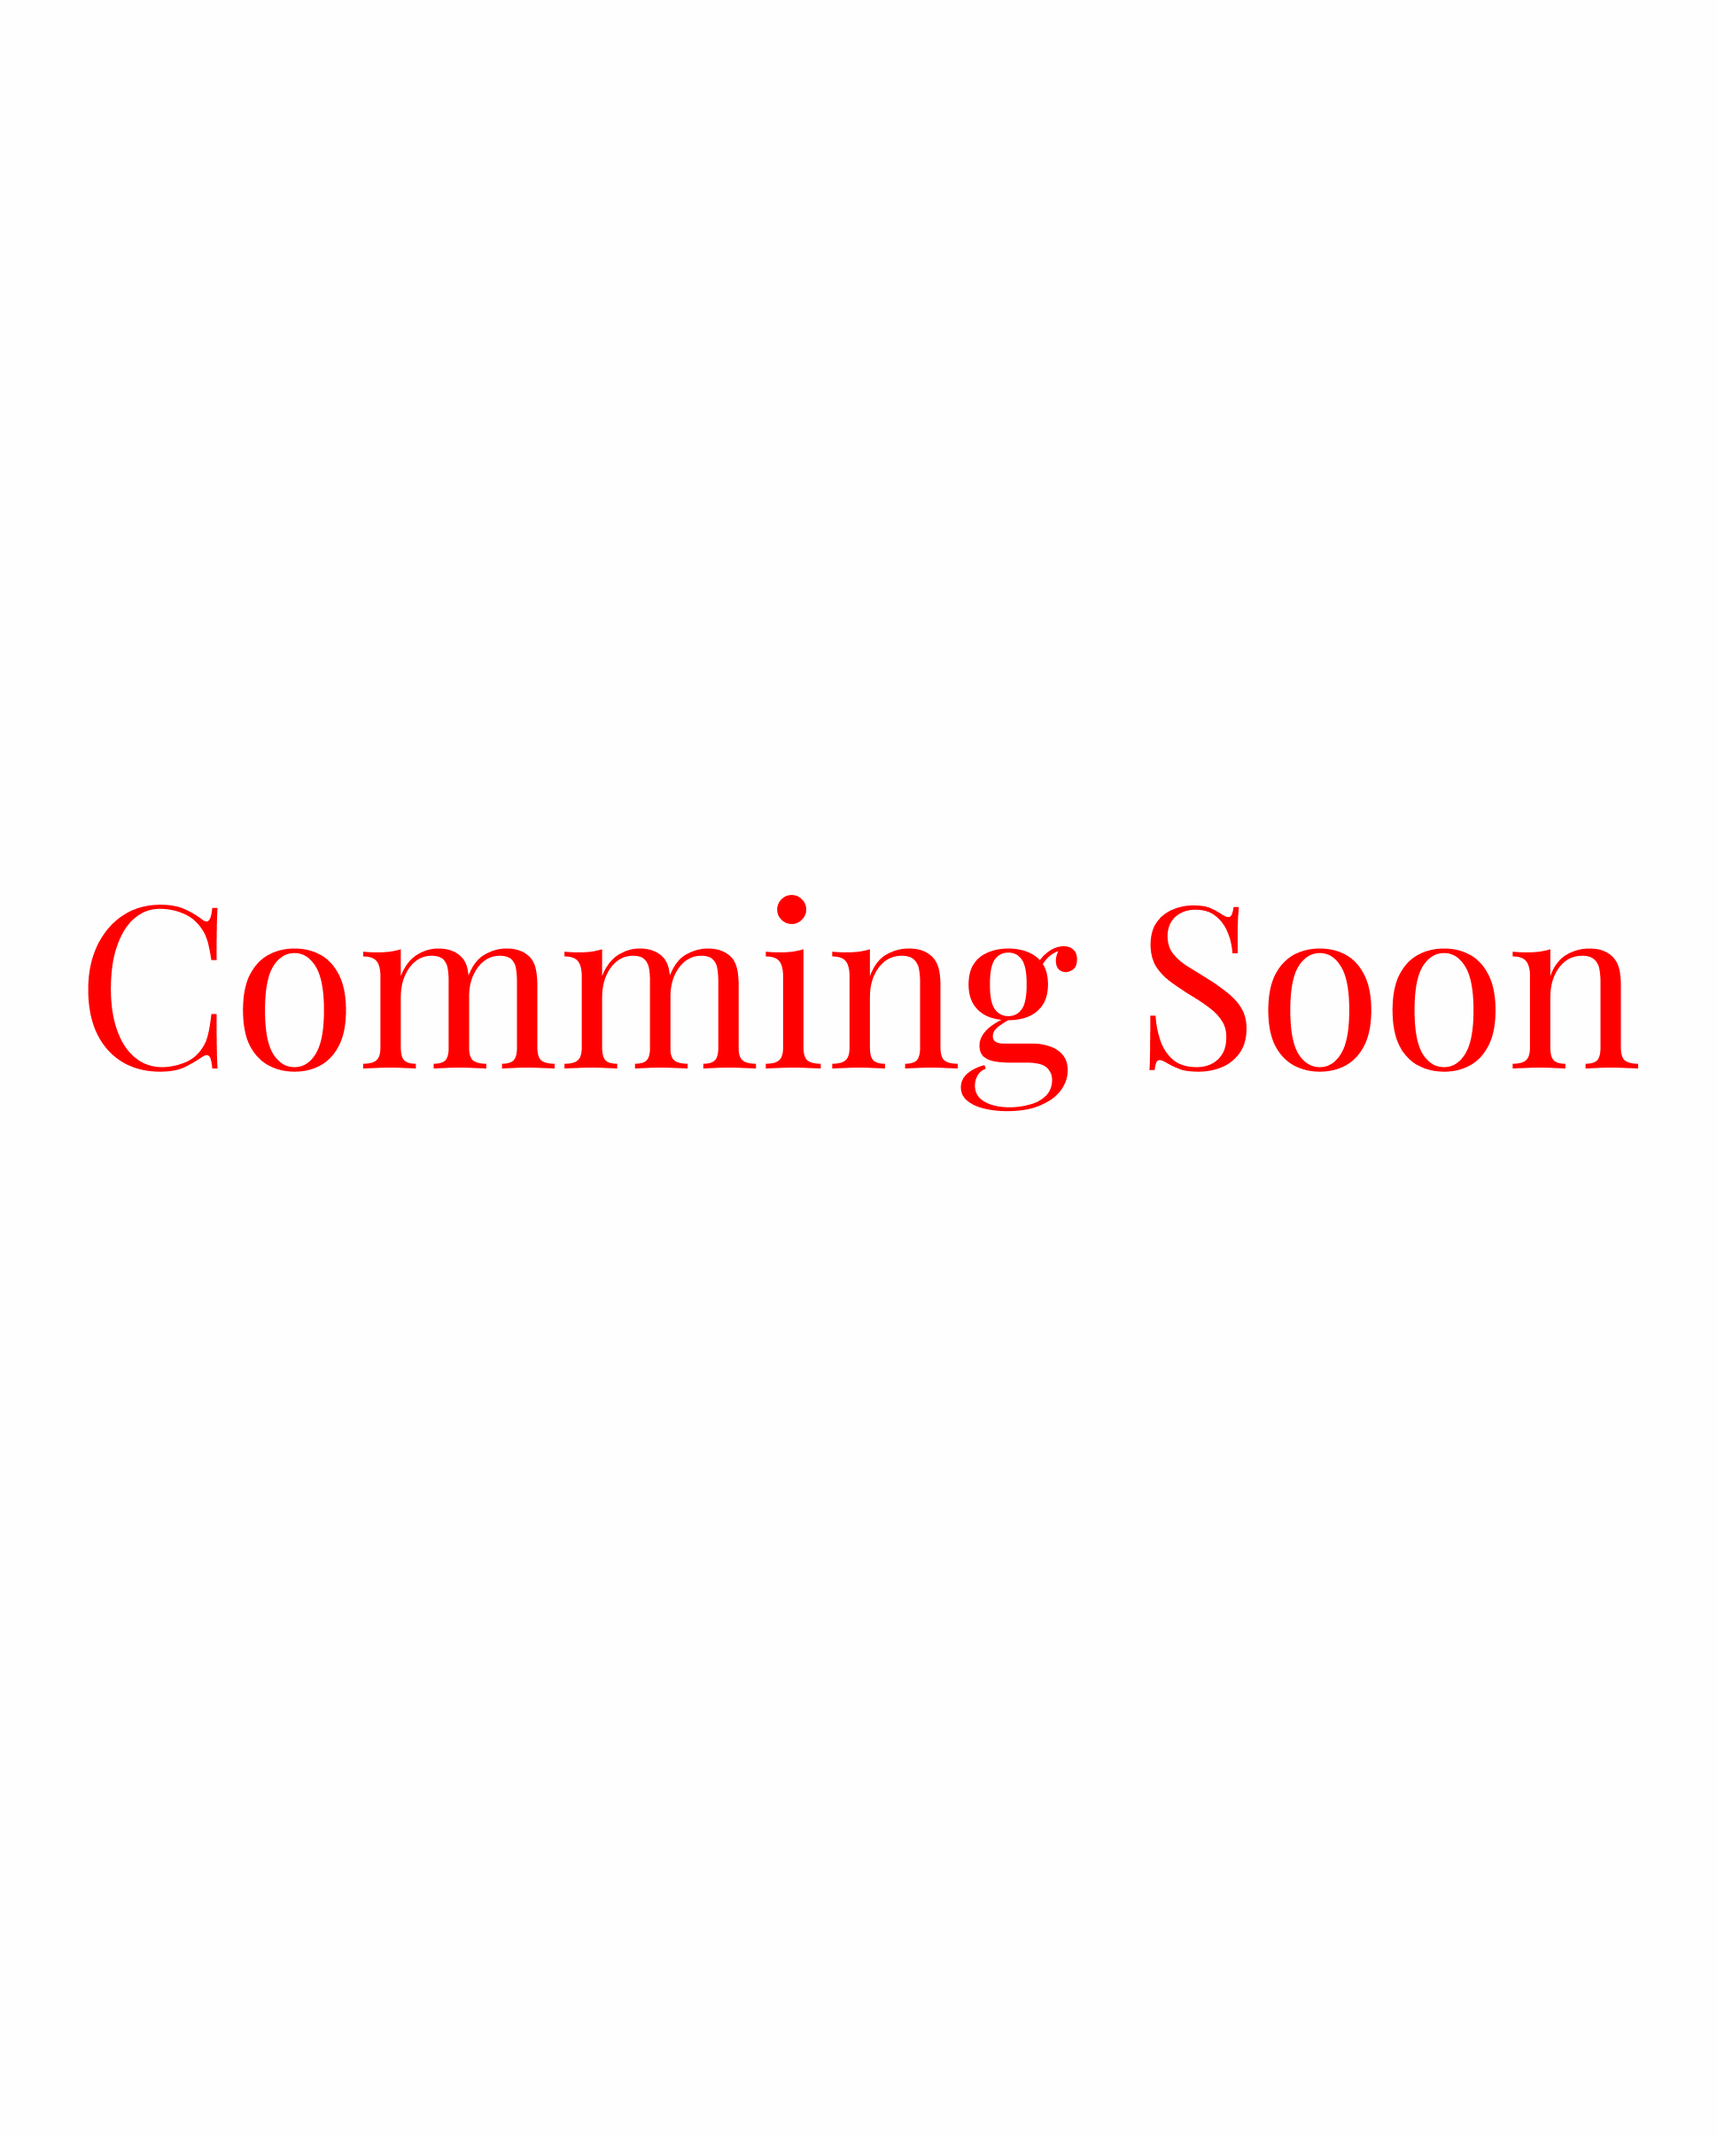
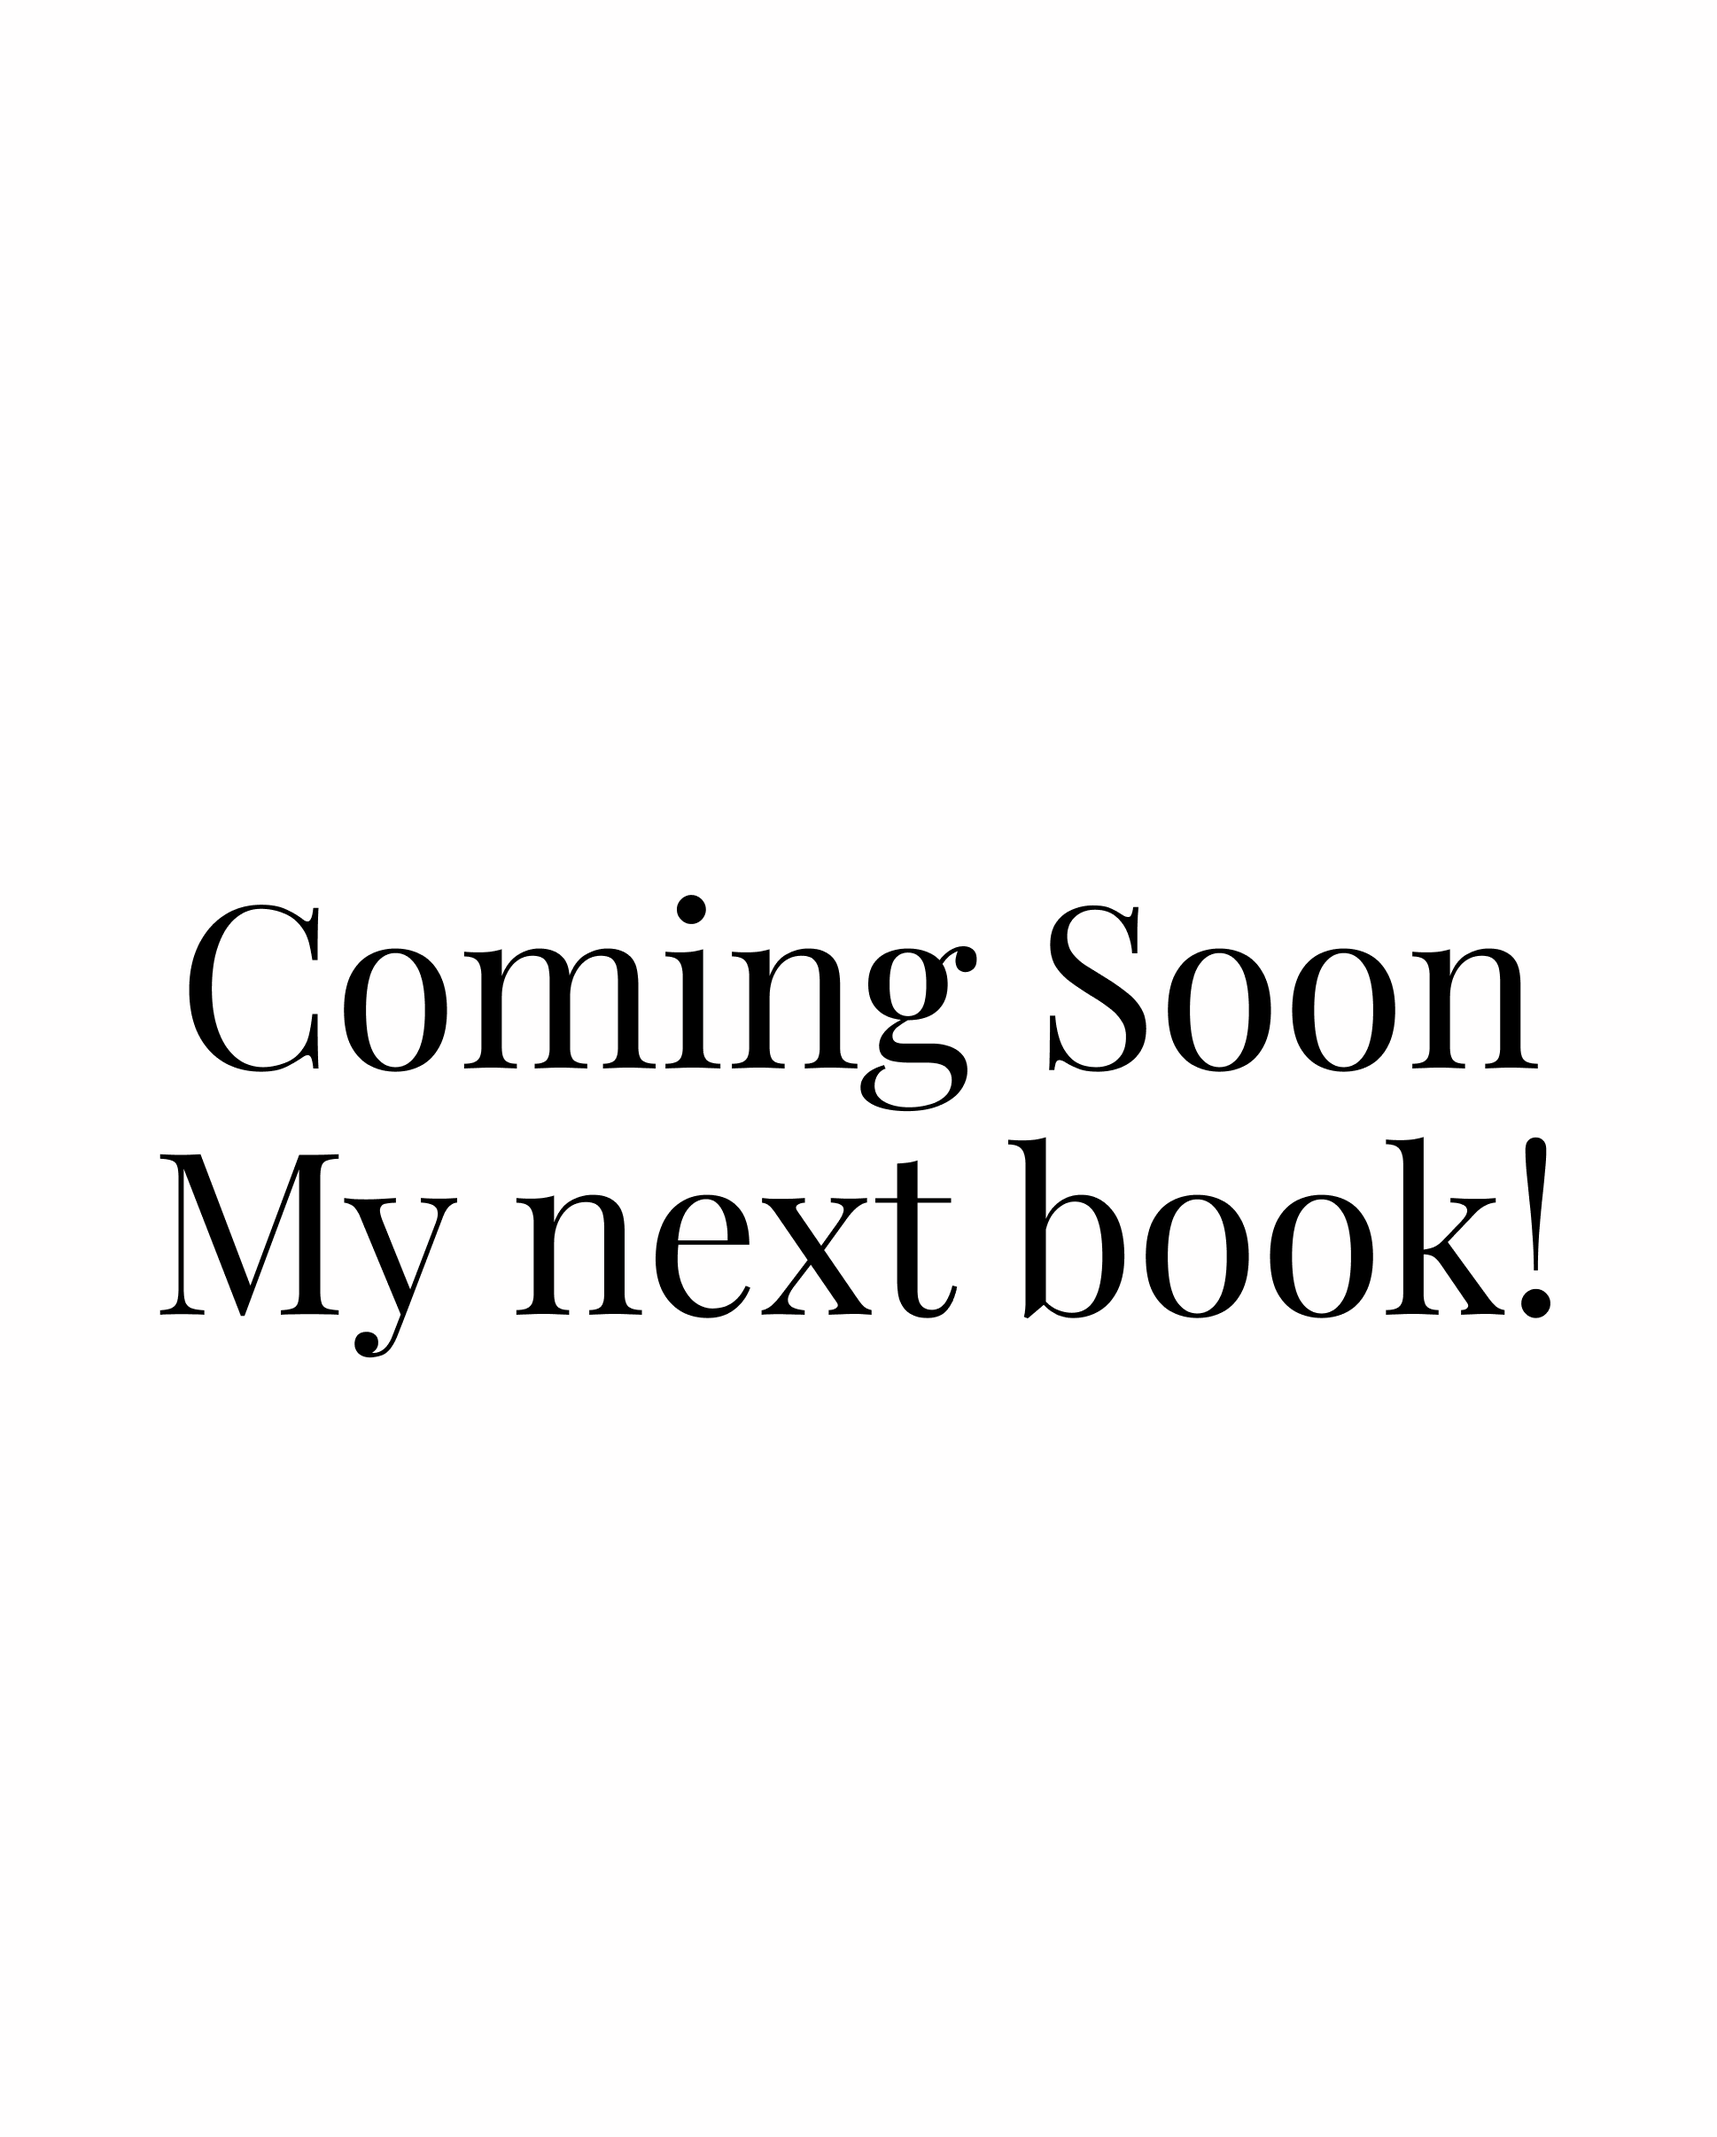
update comming soon and purchase button

Changed region(s): [[0.031, 0.4042, 0.9598, 0.6219], [0.1858, 0.6219, 0.2167, 0.653]]

diff --git a/app/page.js b/app/page.js
@@ -1,6 +1,7 @@
 'use client';
 
 import Image from 'next/image';
+import Link from 'next/link';
 import { playfairDisplay, montserrat } from './fonts';
 import { motion } from 'framer-motion';
 
@@ -12,6 +13,9 @@ import MeetTheAuthor from './components/meettheauthor';
 import Contact from './components/contact';
 
 export default function Home() {
+	const amazon_link =
+		'https://www.amazon.com/Gina-goes-Genetic-Counselor-Smith-ebook/dp/B0BHXCGHY1/ref=sr_1_1?crid=3539G9CU5Z5LZ&dib=eyJ2IjoiMSJ9.bTAj6n_3Ek2saSZmSygptg.OgUQ0cpQu4fw94cAU2DLr2jlvH0DVgZTNrQHJJdXdds&dib_tag=se&keywords=gina+goes+to+the+genetic&qid=1714886233&sprefix=gina+goes+to+the+genetic+%2Caps%2C89&sr=8-1';
+
 	return (
 		<div id='home_scroll'>
 			<div className='mx-auto mt-[50px] px-4 h-fit'>
@@ -46,15 +50,18 @@ export default function Home() {
 								genetic testing can be a daunting task, as is the case for
 								seven-year-old Gina.
 							</p>
-							<motion.button
-								whileHover={{ scale: 1.2 }}
-								whileTap={{ scale: 0.8 }}
-								onHoverStart={(e) => {}}
-								onHoverEnd={(e) => {}}
-								onClick={() => router.push('/')}
-								className={`${montserrat.className} border border-gray-300 bg-sara_gray font-semibold py-2 px-4 inline-flex self-center`}>
-								Learn More
-							</motion.button>
+
+							<Link className='self-center' href={amazon_link}>
+								<motion.button
+									whileHover={{ scale: 1.2 }}
+									whileTap={{ scale: 0.8 }}
+									onHoverStart={(e) => {}}
+									onHoverEnd={(e) => {}}
+									onClick={() => router.push('/')}
+									className={`${montserrat.className} border border-gray-300 bg-sara_gray font-semibold py-2 px-4 inline-flex`}>
+									Purchase
+								</motion.button>
+							</Link>
 						</div>
 					</div>
 					<div className='w-full h-full md:w-2/6 overflow-hidden flex flex-col'>
@@ -68,18 +75,6 @@ export default function Home() {
 								className='border border-gray-300'
 								placeholder='blur' // Optional blur-up while loading
 							/>
-						</div>
-						<div
-							className={`${playfairDisplay.className} w-full h-[516px] lg:h-[366px] flex flex-col justify-center mb-6 mt-4 text-grey-300`}>
-							<h1 className='text-5xl md:text-3xl text-center'>
-								Keep an eye out,
-							</h1>
-							<h1 className='text-5xl  md:text-3xl text-center mb-[30px] mx-4 md:mx-0 lg:mx-[4rem]'>
-								I'm currently working on my next book!
-							</h1>
-
-							<p className='text-center mb-6 px-6'></p>
-							<p className='text-center px-6'></p>
 						</div>
 					</div>
 				</div>
